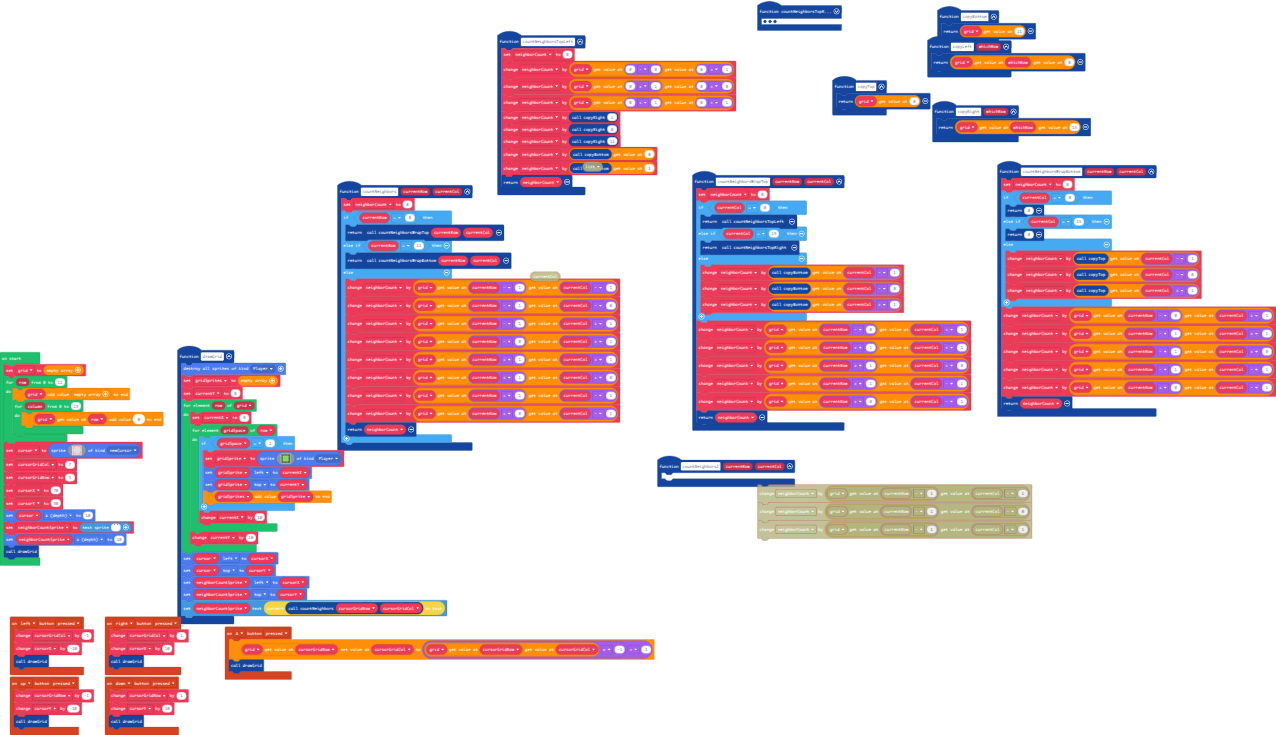
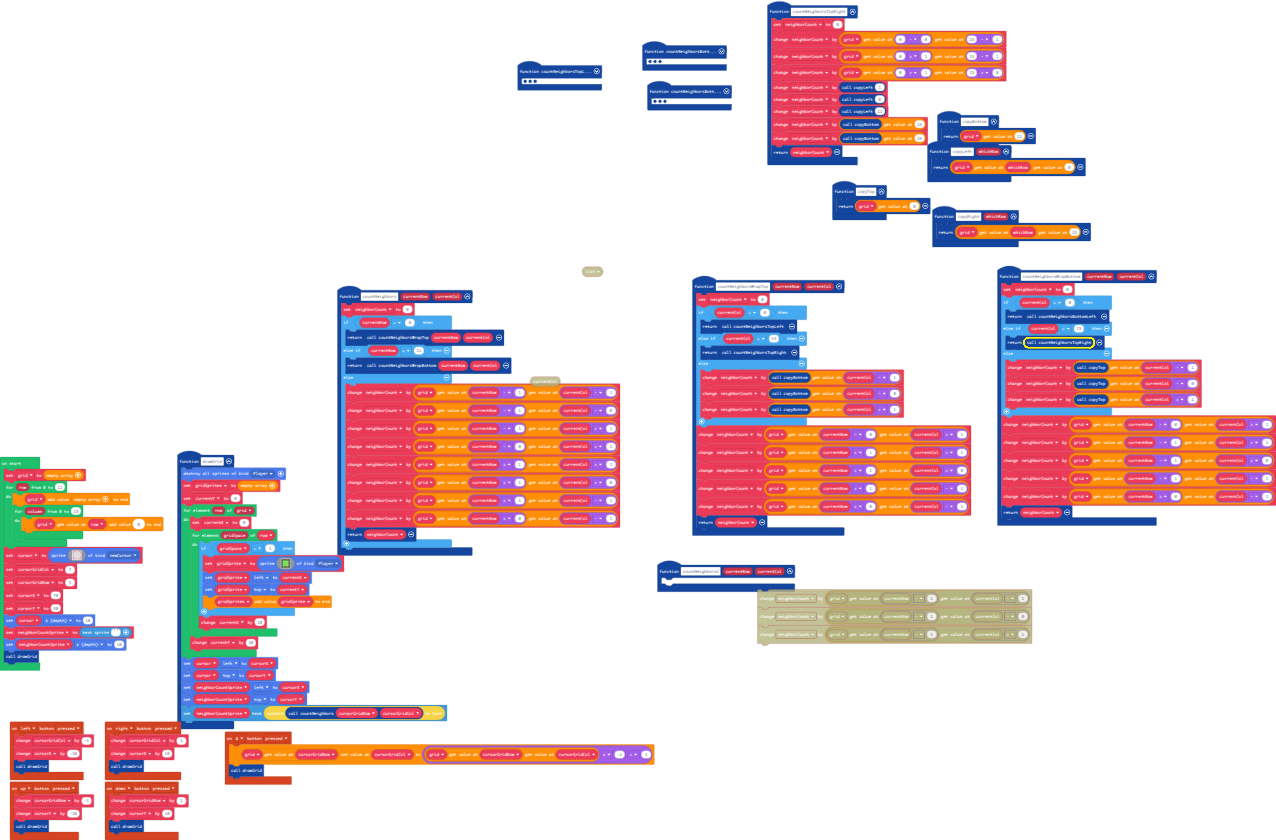
wrap bottom left and right

diff --git a/main.ts b/main.ts
@@ -7,6 +7,18 @@ controller.up.onEvent(ControllerButtonEvent.Pressed, function () {
     cursorY += -10
     drawGrid()
 })
+function countNeighborsBottomLeft () {
+    neighborCount = 0
+    neighborCount += grid[11 - 0][0 + 1]
+    neighborCount += grid[11 - 1][0 + 0]
+    neighborCount += grid[11 + 1][0 + 1]
+    neighborCount += copyRight(10)
+    neighborCount += copyRight(0)
+    neighborCount += copyRight(11)
+    neighborCount += copyTop()[0]
+    neighborCount += copyTop()[1]
+    return neighborCount
+}
 controller.A.onEvent(ControllerButtonEvent.Pressed, function () {
     grid[cursorGridRow][cursorGridCol] = grid[cursorGridRow][cursorGridCol] * -1 + 1
     drawGrid()
@@ -94,6 +106,18 @@ function countNeighborsTopLeft () {
     neighborCount += copyBottom()[1]
     return neighborCount
 }
+function countNeighborsBottomRight () {
+    neighborCount = 0
+    neighborCount += grid[11 - 0][15 - 1]
+    neighborCount += grid[11 - 1][15 - 1]
+    neighborCount += grid[11 - 1][15 + 0]
+    neighborCount += copyLeft(10)
+    neighborCount += copyLeft(0)
+    neighborCount += copyLeft(11)
+    neighborCount += copyTop()[15]
+    neighborCount += copyTop()[14]
+    return neighborCount
+}
 function countNeighbors (currentRow: number, currentCol: number) {
     neighborCount = 0
     if (currentRow == 0) {
@@ -135,9 +159,9 @@ function copyLeft (whichRow: number) {
 function countNeighborsWrapBottom (currentRow: number, currentCol: number) {
     neighborCount = 0
     if (currentCol == 0) {
-        return 0
+        return countNeighborsBottomLeft()
     } else if (currentCol == 15) {
-        return 0
+        return countNeighborsTopRight()
     } else {
         neighborCount += copyTop()[currentCol - 1]
         neighborCount += copyTop()[currentCol - 0]
@@ -153,11 +177,11 @@ function countNeighborsWrapBottom (currentRow: number, currentCol: number) {
 function copyTop () {
     return grid[0]
 }
-let neighborCount = 0
 let gridSprite: Sprite = null
 let currentX = 0
 let currentY = 0
 let gridSprites: Sprite[] = []
+let neighborCount = 0
 let neighborCountSprite: TextSprite = null
 let cursorY = 0
 let cursorX = 0
